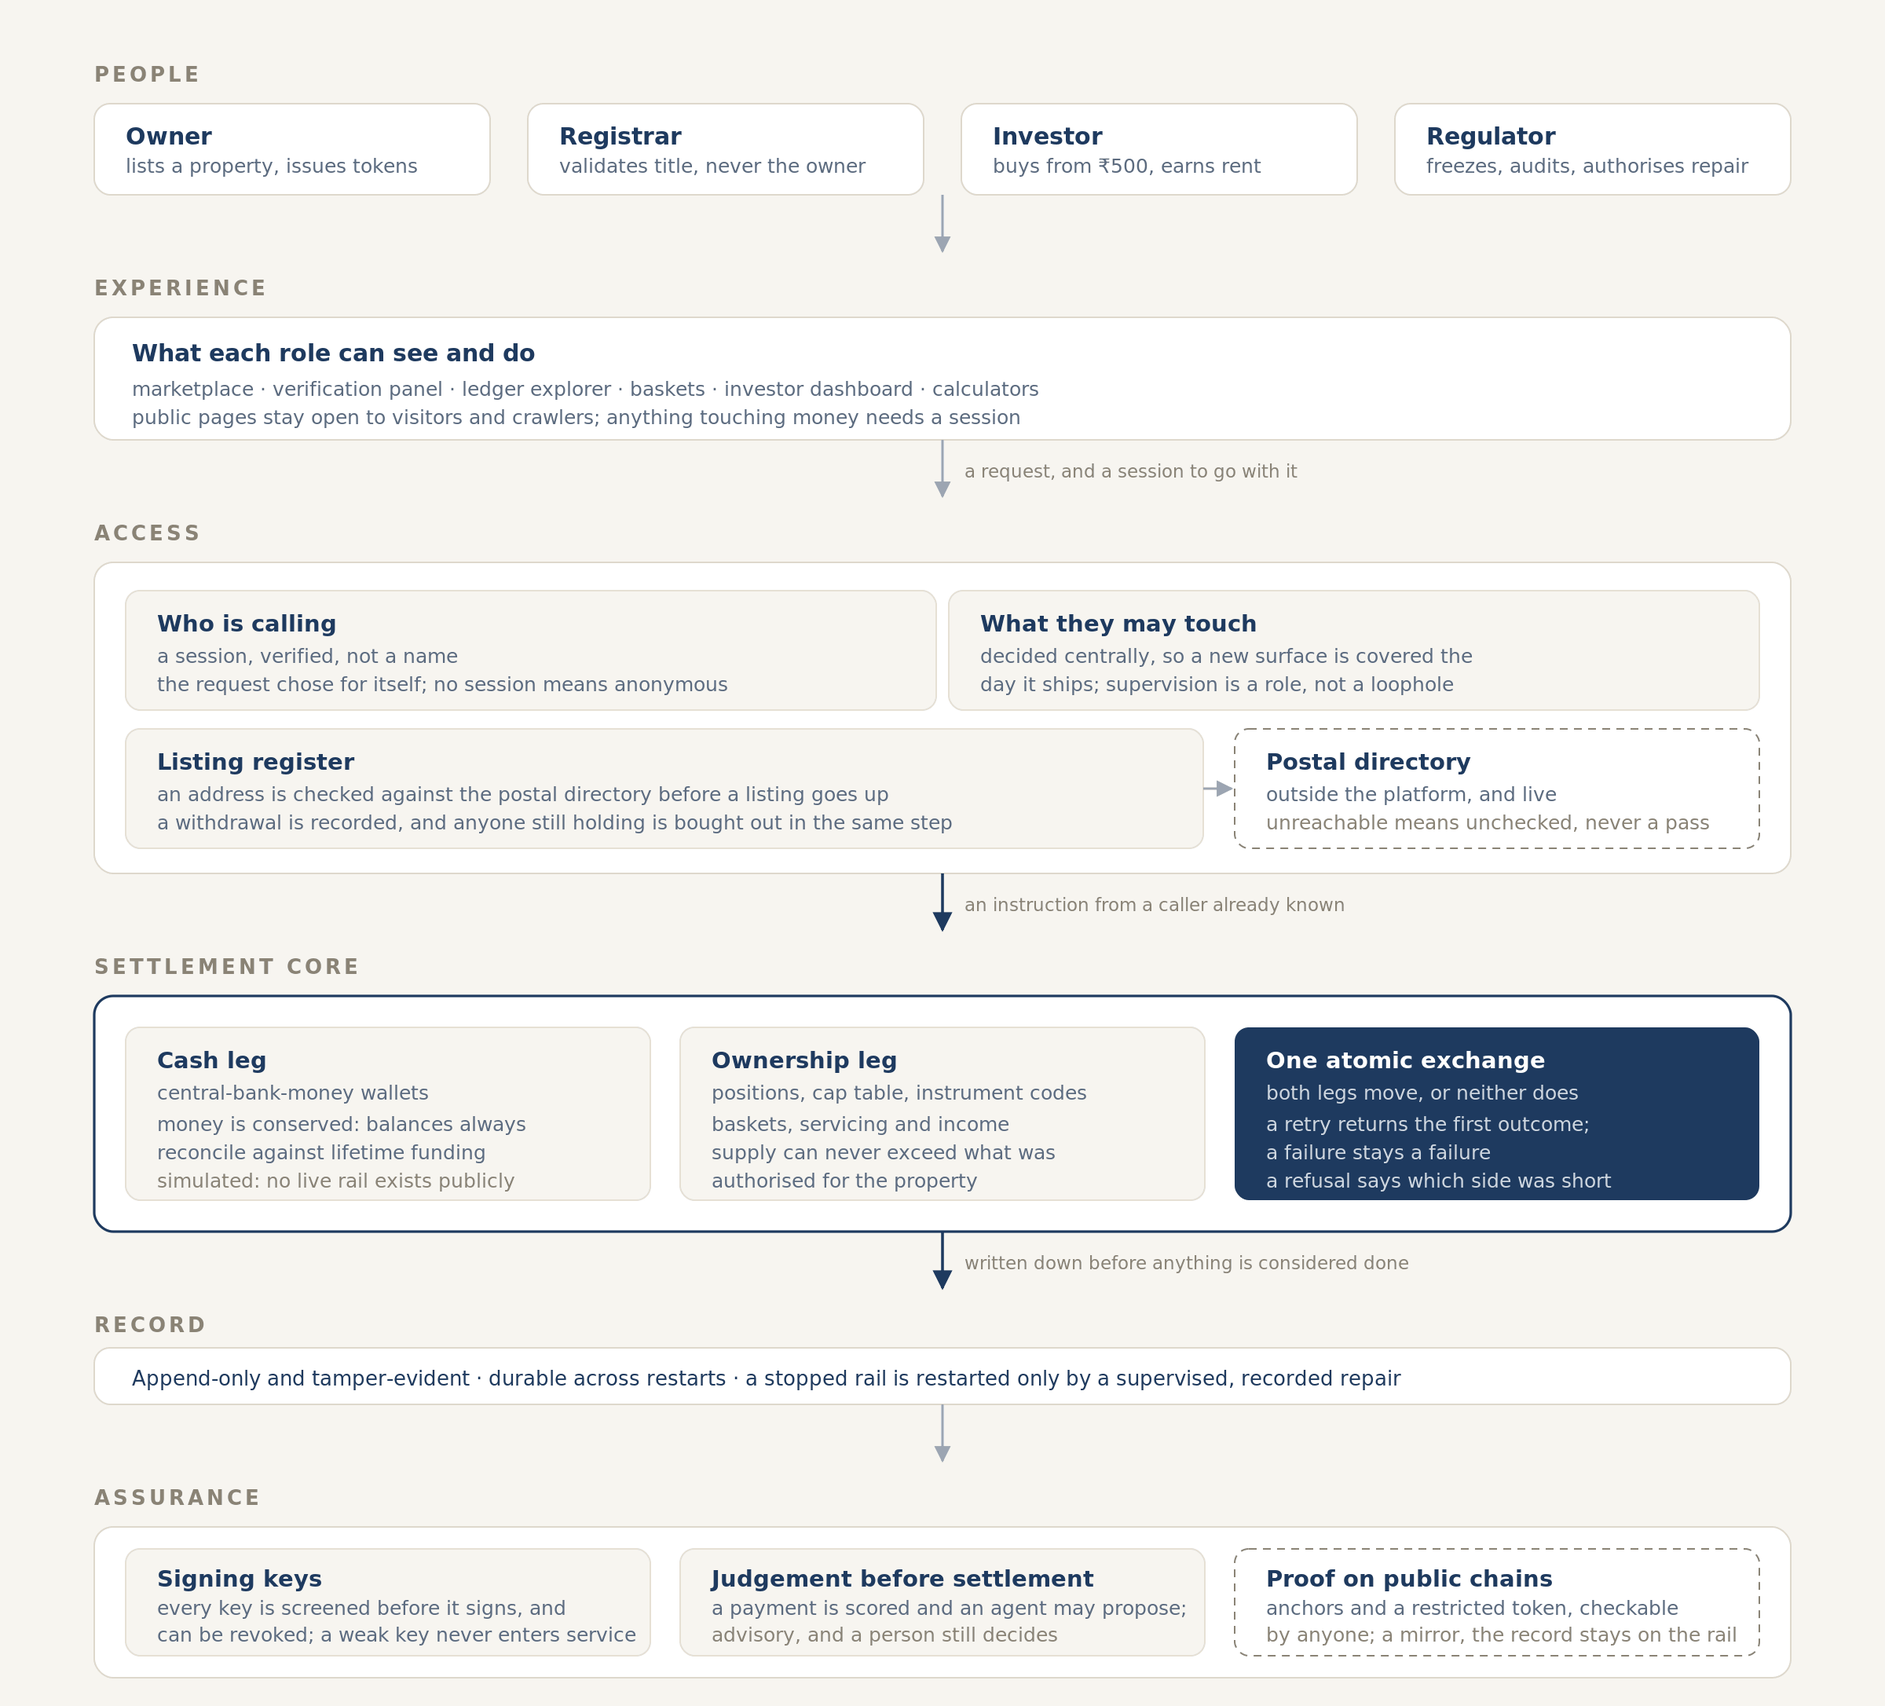
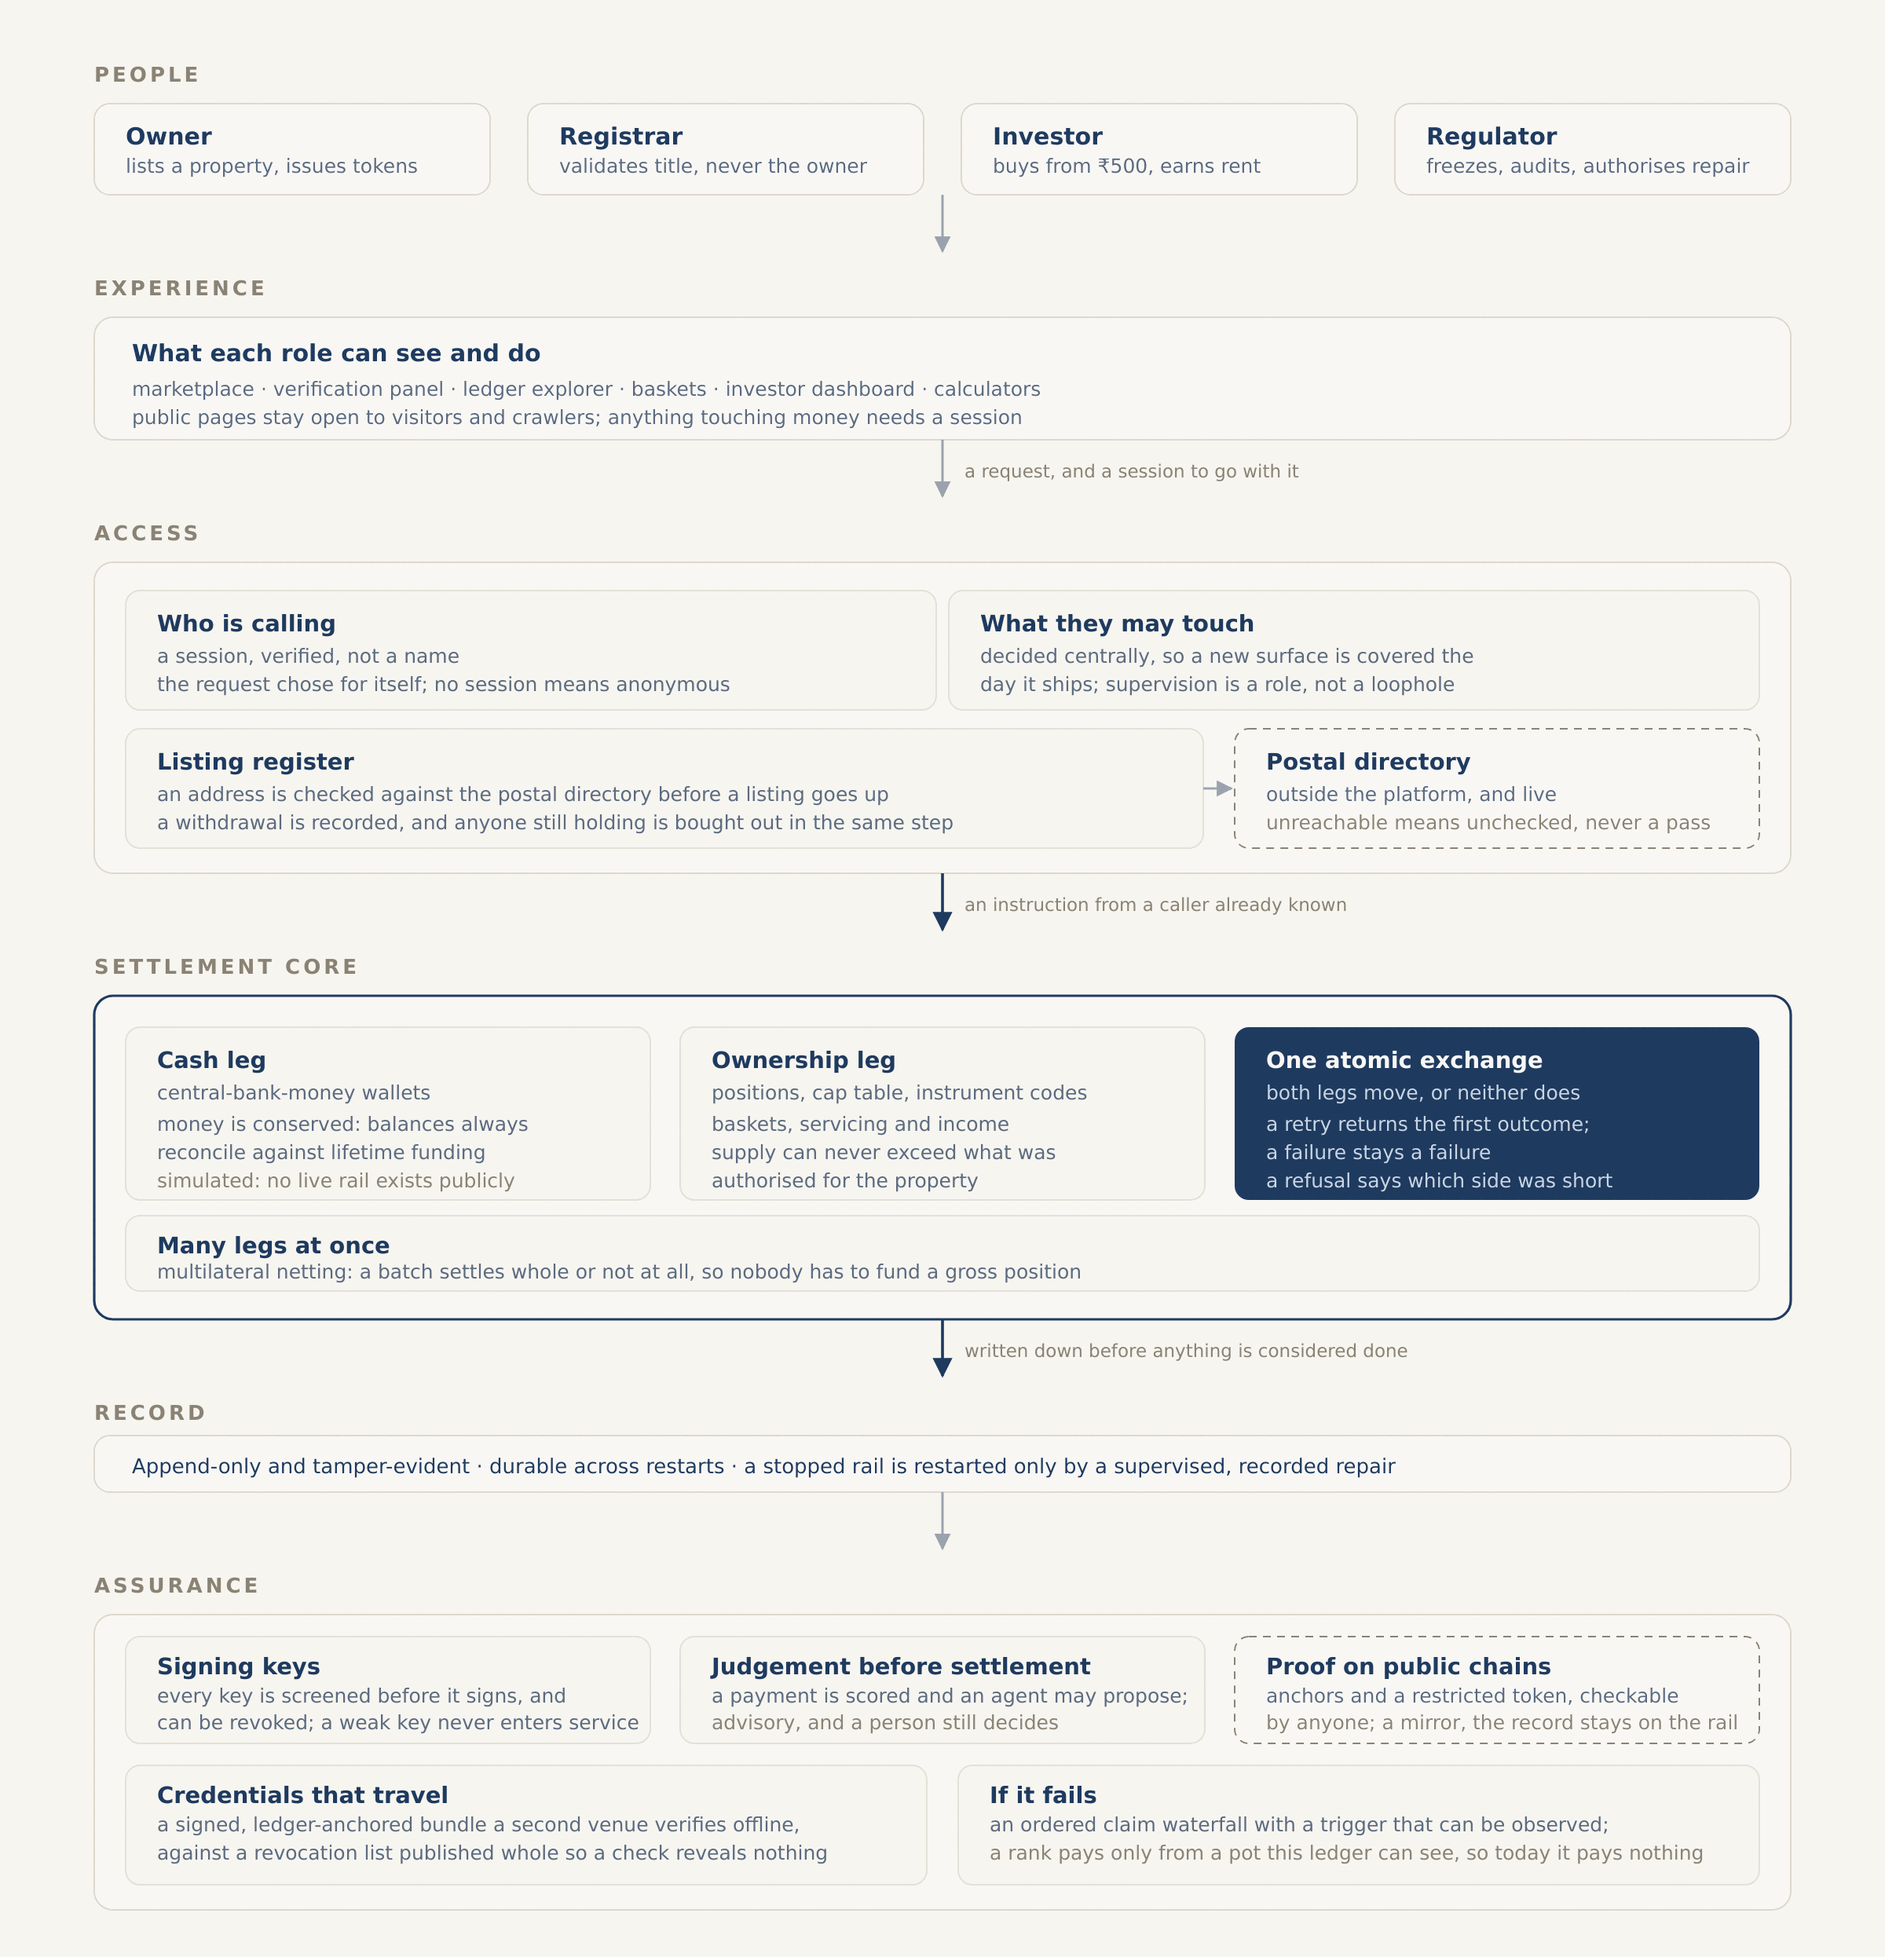
docs: the architecture diagram was three ships out of date
Netting, portable credentials and recourse all shipped without the picture
changing, and the picture is what most readers take away. Three additions,
each placed where the thing actually lives rather than appended to a list:

Many legs at once, as a full-width strip inside the settlement core. Netting
is a second way to settle, not a different core, so it reads under the three
legs instead of becoming a fourth column beside them.

Credentials that travel, and If it fails, as a second row of assurance. Both
are about a holder not needing us: one verifies offline against a revocation
list published whole, the other states an ordered waterfall in which a rank
pays only from a pot this ledger can see. The diagram says that today each
pays nothing, because that is what the simulation returns and a diagram that
flatters is worse than none.

The alt text in the SVG and the README, which is the version a screen reader
and a crawler get, is updated to match.

Also adds scripts/export-arch-png.mjs. The PNG exists only because GitHub
will not render a relative SVG, and keeping the export by hand is exactly
how the file everybody sees fell behind the file one person edits. It
renders through headless Chromium, because the diagram sets its type per
element and the common rasterisers quietly re-flow it, and it refuses to
write anything rather than overwrite a good PNG with a worse one.

diff --git a/README.md b/README.md
@@ -77,11 +77,11 @@ Other ways to run it and every configuration switch: [`docs/ARCHITECTURE.md`](do
 
 <div align="center">
 
-<img src="docs/architecture.png" alt="AasthiChain architecture: owners, registrars, investors and regulators work through a web experience; an access layer establishes who is calling, what they may touch, and keeps the listing register, whose addresses are checked against an outside postal directory; a settlement core moves the cash leg and the ownership leg as one atomic exchange; every state change is written to an append-only record that the whole system answers to; and a layer of assurance sits under all of it: a register of the keys that sign, a risk layer that judges a payment before it settles, and copies of the proof on public chains that a holder can check without asking the platform." width="100%">
+<img src="docs/architecture.png" alt="AasthiChain architecture: owners, registrars, investors and regulators work through a web experience; an access layer establishes who is calling, what they may touch, and keeps the listing register, whose addresses are checked against an outside postal directory; a settlement core moves the cash leg and the ownership leg as one atomic exchange, and nets a whole batch of legs so nobody funds a gross position; every state change is written to an append-only record that the whole system answers to; and a layer of assurance sits under all of it: a register of the keys that sign, a risk layer that judges a payment before it settles, copies of the proof on public chains that a holder can check without asking the platform, credentials a second venue can verify offline, and an ordered claim waterfall saying what a holder would recover if the asset fails, which today is nothing because no rank is funded." width="100%">
 
 </div>
 
-<sub>Vector source: [`docs/architecture.svg`](docs/architecture.svg). Edit the SVG, then re-export the PNG.</sub>
+<sub>Vector source: [`docs/architecture.svg`](docs/architecture.svg). Edit the SVG, then regenerate the PNG with `node scripts/export-arch-png.mjs`.</sub>
 
 Four kinds of people use it: owners list property, registrars validate title, investors buy and
 trade fractions, regulators supervise. Behind them sit four things:
